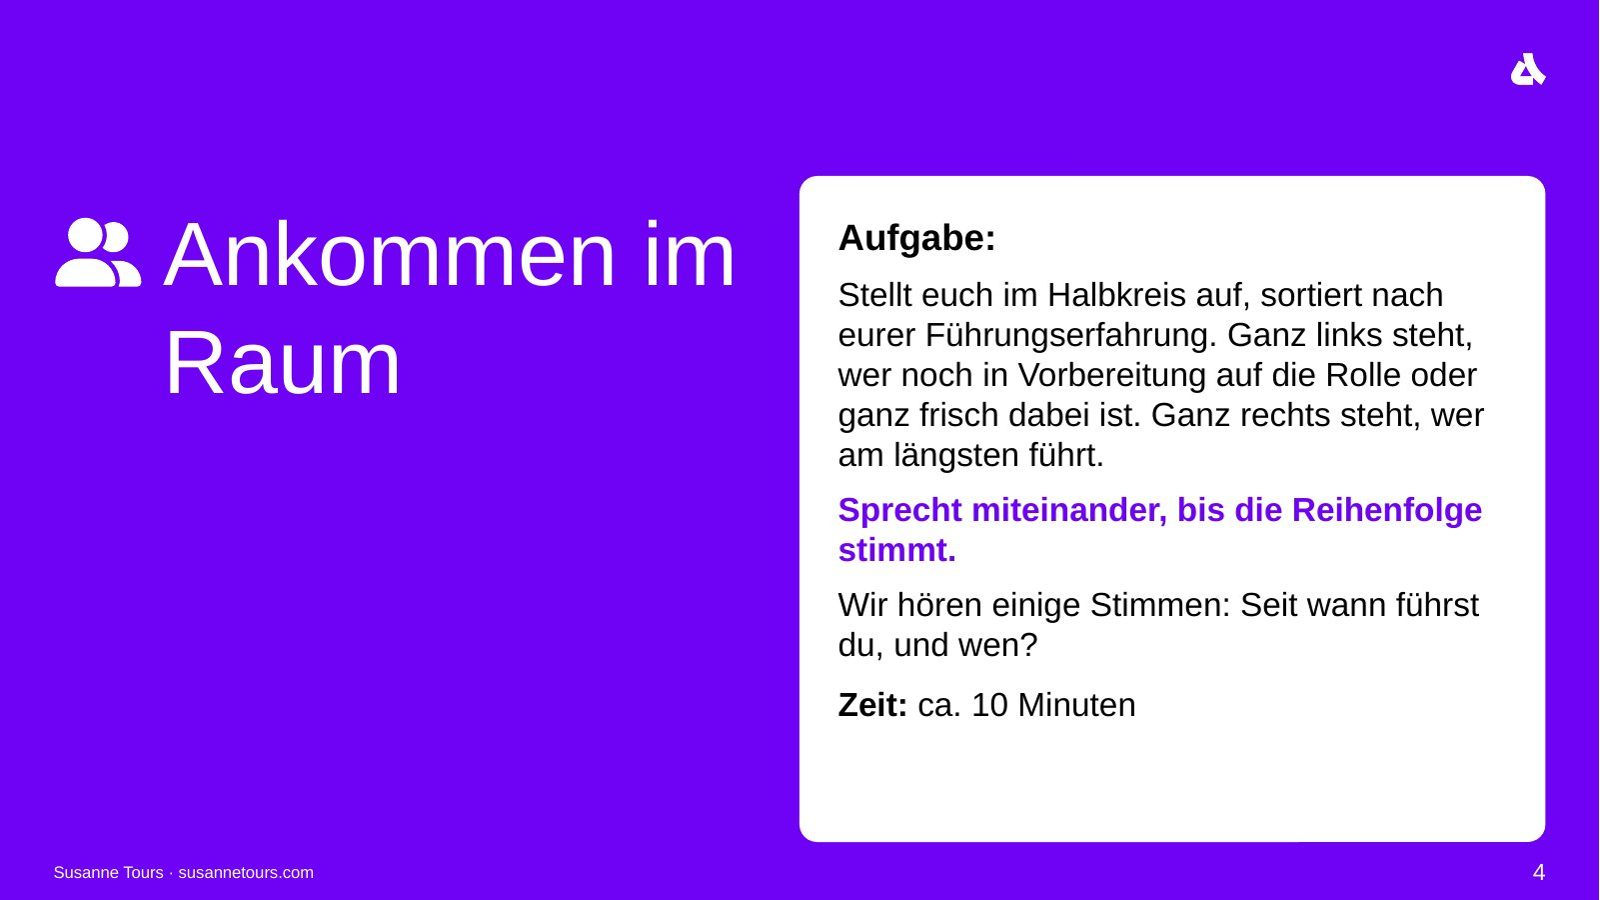
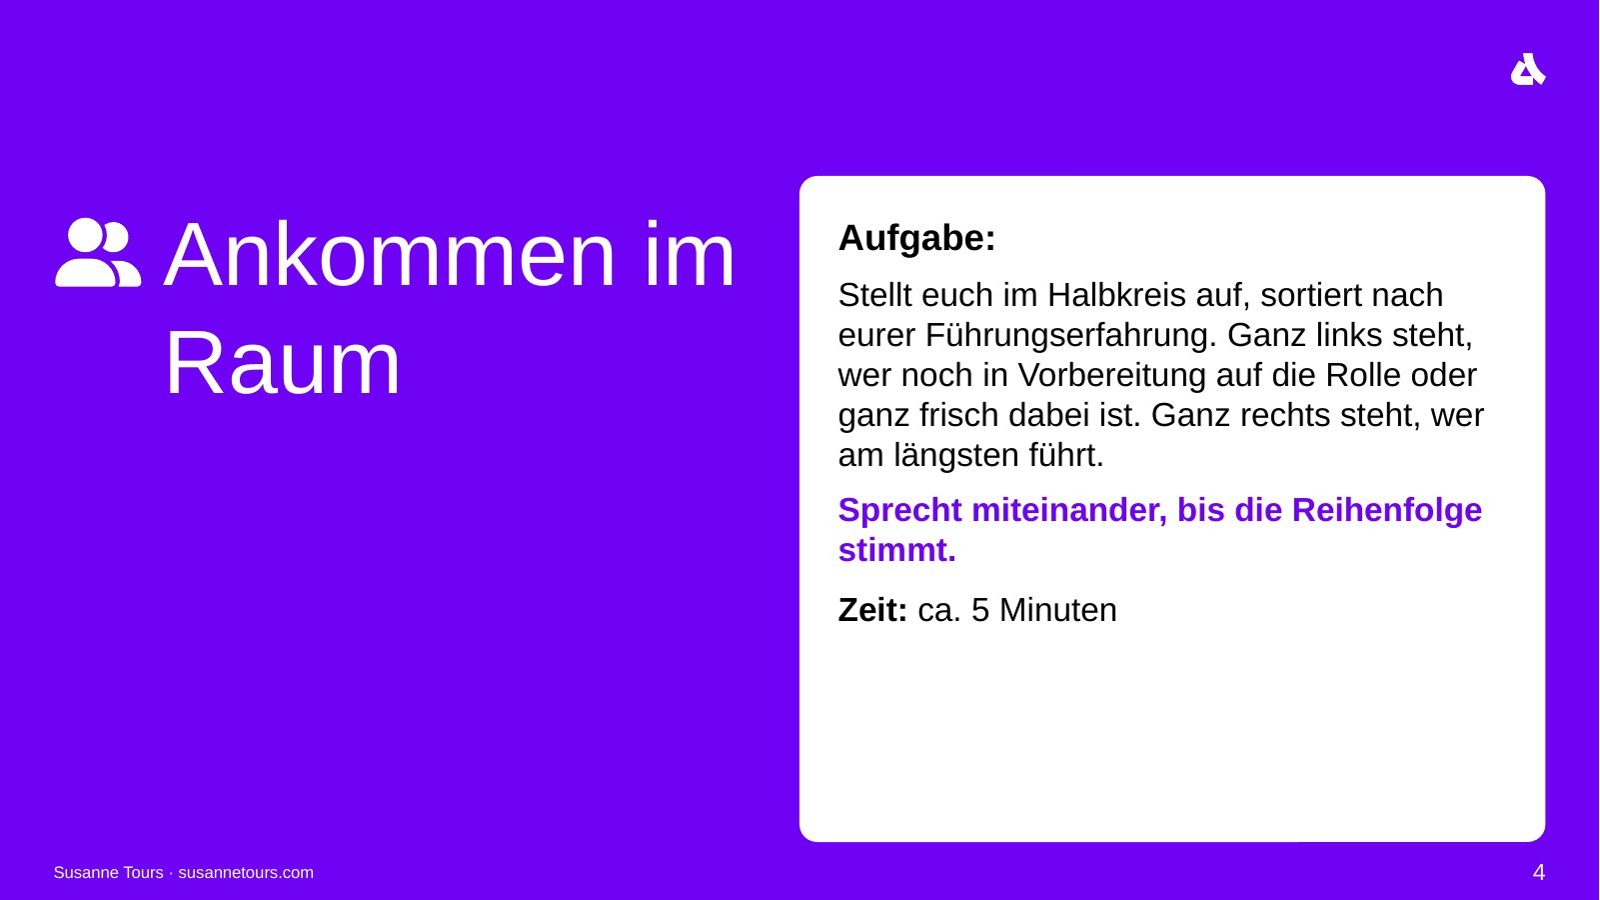
Ankommen: Vorstellungsrunde mit Hashtags am Flipchart
Claude-Session: https://claude.ai/code/session_01KBCioMVuyp2k3b26XD1BtE

Changed region(s): [[0.5, 0.6533, 0.9375, 0.8089]]

diff --git a/index.html b/index.html
@@ -362,7 +362,7 @@ details.more .b{padding:0 20px 16px}
   <div class="subnav" id="abnav"><button data-sub="t1" class="on">Tag 1</button><button data-sub="t2">Tag 2</button></div>
   <div class="sub show" id="sub-t1">
   <table class="agenda">
-    <tr><td>09:00</td><td><b>Ankommen</b><small>Aufstellung nach Führungserfahrung, eure Erwartungen, was Führung für dich bedeutet</small></td></tr>
+    <tr><td>09:00</td><td><b>Ankommen</b><small>Aufstellung nach Führungserfahrung, Vorstellung mit Rolle, Team und Erwartungen, was Führung für dich bedeutet</small></td></tr>
     <tr><td>09:45</td><td><b>Die Veränderungskurve</b><small>Was ein Führungswechsel bei Menschen auslöst</small></td></tr>
     <tr class="pause"><td>10:15</td><td>Kaffeepause bis 10:30 Uhr</td></tr>
     <tr><td>10:30</td><td><b>Perspektivwechsel</b><small>Du bekommst eine neue Führungskraft. Was geht dir durch den Kopf?</small></td></tr>

diff --git a/src/body.html b/src/body.html
@@ -87,7 +87,7 @@
   <div class="subnav" id="abnav"><button data-sub="t1" class="on">Tag 1</button><button data-sub="t2">Tag 2</button></div>
   <div class="sub show" id="sub-t1">
   <table class="agenda">
-    <tr><td>09:00</td><td><b>Ankommen</b><small>Aufstellung nach Führungserfahrung, eure Erwartungen, was Führung für dich bedeutet</small></td></tr>
+    <tr><td>09:00</td><td><b>Ankommen</b><small>Aufstellung nach Führungserfahrung, Vorstellung mit Rolle, Team und Erwartungen, was Führung für dich bedeutet</small></td></tr>
     <tr><td>09:45</td><td><b>Die Veränderungskurve</b><small>Was ein Führungswechsel bei Menschen auslöst</small></td></tr>
     <tr class="pause"><td>10:15</td><td>Kaffeepause bis 10:30 Uhr</td></tr>
     <tr><td>10:30</td><td><b>Perspektivwechsel</b><small>Du bekommst eine neue Führungskraft. Was geht dir durch den Kopf?</small></td></tr>

diff --git a/src/deck.py b/src/deck.py
@@ -273,9 +273,9 @@ agenda('Tag 1', [('09:00', 'Ankommen'), ('09:45', 'Die Veränderungskurve'), ('1
                  ('16:40', 'Tagesabschluss'), ('17:00', 'Ende')],
        '10:15-10:30 Uhr, 15:15-15:30 Uhr', '12:30-13:30 Uhr')
 box('Ankommen im Raum', 'Stellt euch im Halbkreis auf, sortiert nach eurer Führungserfahrung. Ganz links steht, wer noch in Vorbereitung auf die Rolle oder ganz frisch dabei ist. Ganz rechts steht, wer am längsten führt.',
-    'Sprecht miteinander, bis die Reihenfolge stimmt.', 'Wir hören einige Stimmen: Seit wann führst du, und wen?', 'ca. 10 Minuten')
-box('Deine Erwartungen', 'Schreib auf eine Karte, was wir in diesen zwei Tagen besprechen sollten:',
-    'Was muss hier passieren, damit sich die zwei Tage für dich wirklich gelohnt haben?', 'Formuliere es als Hashtag, zum Beispiel #KritikgesprächeFühren. Ein bis drei Hashtags pro Person, dann an die Pinnwand.', 'ca. 10 Minuten')
+    'Sprecht miteinander, bis die Reihenfolge stimmt.', None, 'ca. 5 Minuten')
+box('Wer bist du, was erwartest du?', 'Stell dich der Gruppe kurz vor:',
+    'Welche Rolle hast du? Wie viele Mitarbeitende führst du? Was muss hier passieren, damit sich die zwei Tage für dich wirklich gelohnt haben?', 'Schreib deine Erwartungen dabei als Hashtag an das Flipchart, zum Beispiel #KritikgesprächeFühren.', 'ca. 1 bis 2 Minuten pro Person')
 task('group', 'Was ist Führung?', 'image11.jpg',
      [('p', 'Wir falten den Halbkreis: Die Person ganz links geht zur Person ganz rechts, und so weiter. So sprechen immer wenig und viel Erfahrung miteinander.'),
       ('b', 'Führen heißt für mich …'), ('b', 'Wer war deine beste Führungskraft, und was hat sie ausgemacht?'),
